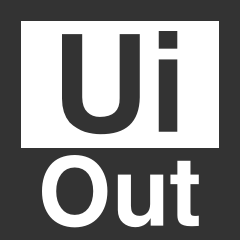
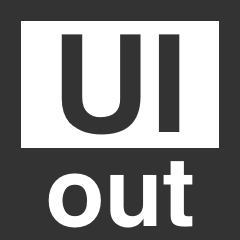
ui

diff --git a/index.html b/index.html
@@ -1,7 +1,7 @@
 <!DOCTYPE html>
 <html>
     <head>
-        <title>Grab Awesome UIs HTML | UiOut</title>
+        <title>Grab Awesome UIs HTML | UIout</title>
         <meta charset="utf-8">
         <meta http-equiv="X-UA-Compatible" content="IE=edge">
         <meta name="viewport" content="width=device-width, initial-scale=1">
@@ -84,12 +84,12 @@
                 <symbol id="brand" viewBox="0 0 240 240">
                     <title>brand</title>
                     <g id="Page-1" stroke="none" stroke-width="1" fill="none" fill-rule="evenodd">
-                        <g id="Group-Copy-6">
-                            <rect id="Rectangle" fill="#FFFFFF" x="0" y="0" width="240" height="240"></rect>
-                            <rect id="Rectangle-Copy" stroke="#333333" stroke-width="21" x="10.5" y="10.5" width="219" height="219"></rect>
+                        <g id="Group-Copy-7">
+                            <rect id="Rectangle-Copy-2" fill="#FFFFFF" x="0" y="0" width="240" height="240"></rect>
+                            <rect id="Rectangle" stroke="#333333" stroke-width="21" x="10.5" y="10.5" width="219" height="219"></rect>
                             <rect id="Rectangle-2" fill="#333333" x="0" y="148" width="240" height="80"></rect>
-                            <path d="M42,191.1875 C42,180.687448 44.7468861,172.046909 50.2407407,165.265625 C55.6728667,158.546841 63.8363653,155.125001 74.7314815,155 C84.9475819,155.125001 92.9413292,158.546841 98.712963,165.265625 C104.453732,172.046909 107.354938,180.687448 107.416667,191.1875 C107.354938,201.687553 104.453732,210.265592 98.712963,216.921875 C92.9413292,223.765659 84.9475819,227.249999 74.7314815,227.375 C69.3610843,227.3125 64.6080454,226.343759 60.4722222,224.46875 C56.4289921,222.687491 53.0185324,220.171891 50.2407407,216.921875 C44.7468861,210.265592 42,201.687553 42,191.1875 Z M74.7314815,214.90625 C80.5339796,214.84375 85.0864032,212.593772 88.3888889,208.15625 C91.5370528,203.812478 93.141975,198.156285 93.2037037,191.1875 C93.141975,184.156215 91.5370528,178.453147 88.3888889,174.078125 C85.0864032,169.734353 80.5339796,167.53125 74.7314815,167.46875 C68.898119,167.53125 64.4074231,169.734353 61.2592593,174.078125 C57.8950449,178.453147 56.212963,184.156215 56.212963,191.1875 C56.212963,198.156285 57.8950449,203.812478 61.2592593,208.15625 C64.4074231,212.593772 68.898119,214.84375 74.7314815,214.90625 Z M163.25,174.59375 L150.148148,174.59375 L150.148148,204.03125 C150.086419,207.875019 149.114207,210.796865 147.231481,212.796875 C145.287027,214.828135 142.756188,215.84375 139.638889,215.84375 C137.570977,215.84375 135.966055,215.468754 134.824074,214.71875 C133.620364,213.999996 132.725312,213.125005 132.138889,212.09375 C131.583331,210.999995 131.274692,209.890631 131.212963,208.765625 C131.027777,207.67187 130.935185,206.67188 130.935185,205.765625 L130.935185,174.59375 L117.833333,174.59375 L117.833333,210.078125 C117.895062,215.640653 119.608008,219.874985 122.972222,222.78125 C126.243844,225.656264 130.348741,227.125 135.287037,227.1875 C137.756185,227.1875 139.839498,226.828129 141.537037,226.109375 C143.234576,225.546872 144.654315,224.812505 145.796296,223.90625 C147.000006,222.874995 147.98765,221.89063 148.759259,220.953125 C149.500004,219.98437 150.070986,219.109379 150.472222,218.328125 L150.657407,218.328125 L150.657407,225.640625 L163.25,225.640625 L163.25,174.59375 Z M190.472222,160.765625 L177.37037,160.765625 L177.37037,174.59375 L170.425926,174.59375 L170.425926,184.15625 L177.37037,184.15625 L177.37037,215.1875 C177.37037,216.781258 177.555554,218.249993 177.925926,219.59375 C178.327162,220.937507 178.990736,222.124995 179.916667,223.15625 C180.873462,224.093755 182.231473,224.828122 183.990741,225.359375 C185.780873,225.921878 188.064801,226.203125 190.842593,226.203125 L192.555556,226.203125 C194.623467,226.203125 196.70678,226.109376 198.805556,225.921875 L198.805556,215.65625 C197.848761,215.843751 196.922844,215.9375 196.027778,215.9375 C193.435172,215.9375 191.861114,215.625003 191.305556,215 C190.688269,214.281246 190.410494,213.218757 190.472222,211.8125 L190.472222,184.15625 L198.805556,184.15625 L198.805556,174.59375 L190.472222,174.59375 L190.472222,160.765625 Z" id="Out" fill="#FFFFFF"></path>
-                            <path d="M139.785494,34.1210938 L119.650463,34.1210938 L119.650463,98.2695313 C119.91281,110.621156 113.288648,116.841145 99.7777778,116.929688 C94.7494605,116.929688 90.6175573,115.335953 87.3819444,112.148438 C84.0151581,109.049464 82.2880663,104.113315 82.2006173,97.3398438 L82.2006173,34.1210938 L62,34.1210938 L62,98.6679688 C62,108.496143 64.5141209,116.398408 69.5424383,122.375 C71.7723877,124.632824 74.2427848,126.536451 76.9537037,128.085938 C79.5334491,129.723967 82.1787416,130.985673 84.8896605,131.871094 C90.4426718,133.420581 95.5364995,134.195313 100.171296,134.195313 C126.056199,134.460939 139.2608,122.220176 139.785494,97.4726563 L139.785494,34.1210938 Z M158.739969,131.738281 L177.300926,131.738281 L177.300926,59.421875 L158.739969,59.421875 L158.739969,131.738281 Z M158.739969,48.6640625 L177.300926,48.6640625 L177.300926,31 L158.739969,31 L158.739969,48.6640625 Z" id="Ui" fill="#333333"></path>
+                            <path d="M48.65625,200.453125 C48.65625,192.390585 50.9843517,185.906275 55.640625,181 C60.2656481,175.999975 66.6405844,173.46875 74.765625,173.40625 C83.0781666,173.46875 89.4999773,175.999975 94.03125,181 C98.5312725,185.906275 100.8125,192.390585 100.875,200.453125 C100.8125,208.453165 98.5312725,214.92185 94.03125,219.859375 C89.4999773,224.8594 83.0781666,227.421874 74.765625,227.546875 C66.6405844,227.421874 60.2656481,224.8594 55.640625,219.859375 C50.9843517,214.92185 48.65625,208.453165 48.65625,200.453125 Z M62.484375,200.453125 C62.484375,204.484395 63.4062408,208.078109 65.25,211.234375 C67.0937592,214.484391 70.2656025,216.140625 74.765625,216.203125 C77.171887,216.203125 79.1874919,215.750005 80.8125,214.84375 C82.3437577,213.968746 83.5937452,212.796882 84.5625,211.328125 C85.5000047,209.859368 86.171873,208.15626 86.578125,206.21875 C86.8906266,204.374991 87.046875,202.453135 87.046875,200.453125 C87.046875,196.296854 86.2187583,192.656266 84.5625,189.53125 C83.5937452,188.062493 82.3437577,186.875005 80.8125,185.96875 C79.1874919,185.124996 77.171887,184.703125 74.765625,184.703125 C70.2656025,184.765625 67.0937592,186.406234 65.25,189.625 C63.4062408,192.750016 62.484375,196.359355 62.484375,200.453125 Z M156.328125,174.953125 L143.0625,174.953125 L143.0625,204.390625 C143,208.234394 142.015635,211.15624 140.109375,213.15625 C138.140615,215.18751 135.578141,216.203125 132.421875,216.203125 C130.328115,216.203125 128.703131,215.828129 127.546875,215.078125 C126.328119,214.359371 125.421878,213.48438 124.828125,212.453125 C124.265622,211.35937 123.953125,210.250006 123.890625,209.125 C123.703124,208.031245 123.609375,207.031255 123.609375,206.125 L123.609375,174.953125 L110.34375,174.953125 L110.34375,210.4375 C110.40625,216.000028 112.140608,220.23436 115.546875,223.140625 C118.859392,226.015639 123.0156,227.484375 128.015625,227.546875 C130.515637,227.546875 132.624991,227.187504 134.34375,226.46875 C136.062509,225.906247 137.499994,225.17188 138.65625,224.265625 C139.875006,223.23437 140.874996,222.250005 141.65625,221.3125 C142.406254,220.343745 142.984373,219.468754 143.390625,218.6875 L143.578125,218.6875 L143.578125,226 L156.328125,226 L156.328125,174.953125 Z M183.890625,161.125 L170.625,161.125 L170.625,174.953125 L163.59375,174.953125 L163.59375,184.515625 L170.625,184.515625 L170.625,215.546875 C170.625,217.140633 170.812498,218.609368 171.1875,219.953125 C171.593752,221.296882 172.26562,222.48437 173.203125,223.515625 C174.17188,224.45313 175.546866,225.187497 177.328125,225.71875 C179.140634,226.281253 181.453111,226.5625 184.265625,226.5625 L186,226.5625 C188.09376,226.5625 190.203114,226.468751 192.328125,226.28125 L192.328125,216.015625 C191.35937,216.203126 190.42188,216.296875 189.515625,216.296875 C186.890612,216.296875 185.296878,215.984378 184.734375,215.359375 C184.109372,214.640621 183.828125,213.578132 183.890625,212.171875 L183.890625,184.515625 L192.328125,184.515625 L192.328125,174.953125 L183.890625,174.953125 L183.890625,161.125 Z" id="out" fill="#FFFFFF"></path>
+                            <path d="M140.519531,34.3828125 L120.132812,34.3828125 L120.132812,98.53125 C120.398439,110.882874 113.691475,117.102864 100.011719,117.191406 C94.9205475,117.191406 90.7369955,115.597672 87.4609375,112.410156 C84.0520663,109.311182 82.3033859,104.375034 82.2148438,97.6015625 L82.2148438,34.3828125 L61.7617188,34.3828125 L61.7617188,98.9296875 C61.7617188,108.757862 64.3072662,116.660126 69.3984375,122.636719 C71.6562613,124.894543 74.1575384,126.798169 76.9023438,128.347656 C79.514336,129.985685 82.1926946,131.247391 84.9375,132.132812 C90.5599239,133.682299 95.7174245,134.457031 100.410156,134.457031 C126.618621,134.722658 139.988279,122.481895 140.519531,97.734375 L140.519531,34.3828125 Z M158.914062,132 L179.300781,132 L179.300781,34.3828125 L158.914062,34.3828125 L158.914062,132 Z" id="UI" fill="#333333"></path>
                         </g>
                     </g>
                 </symbol>
